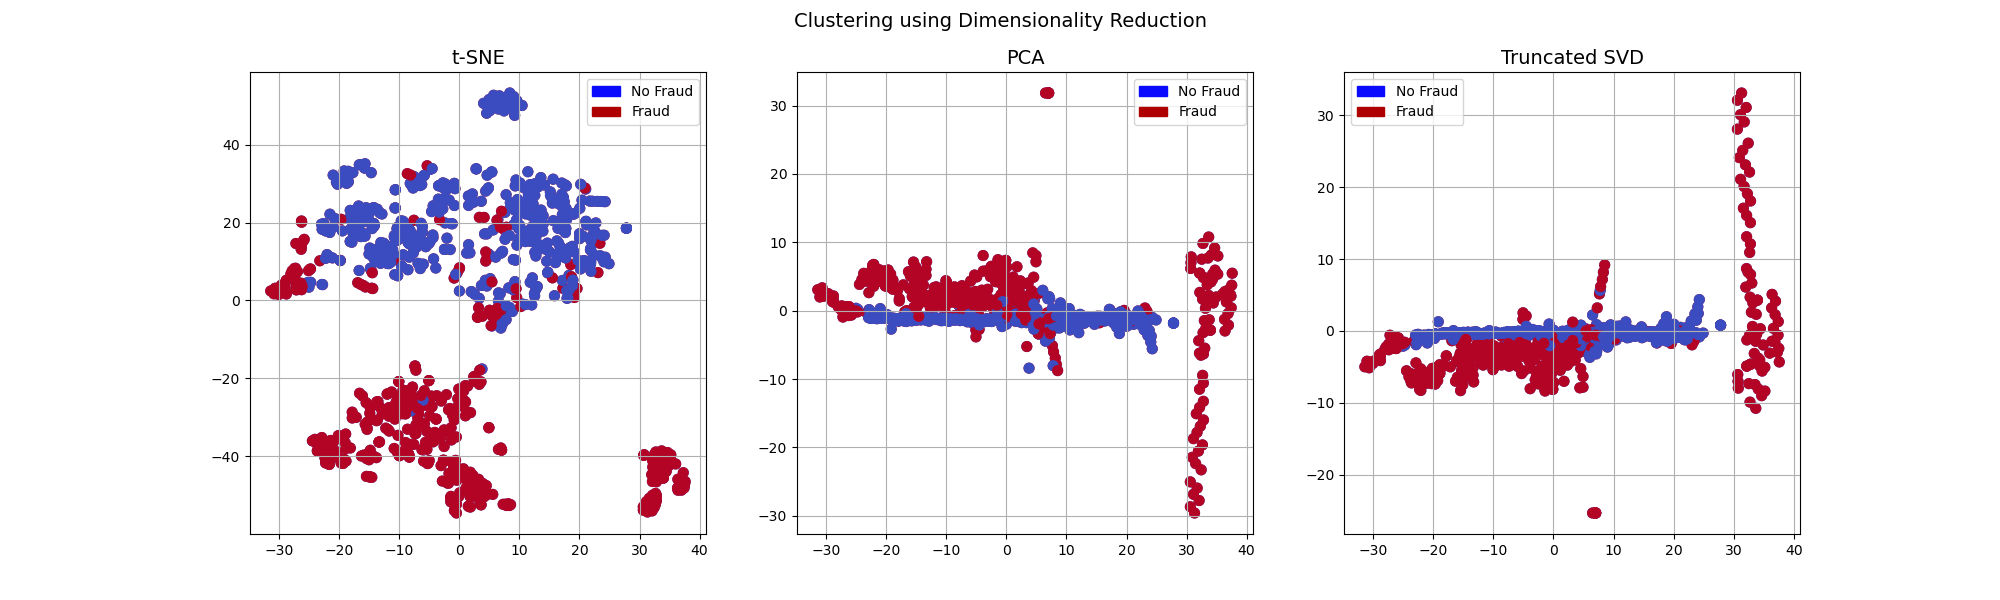
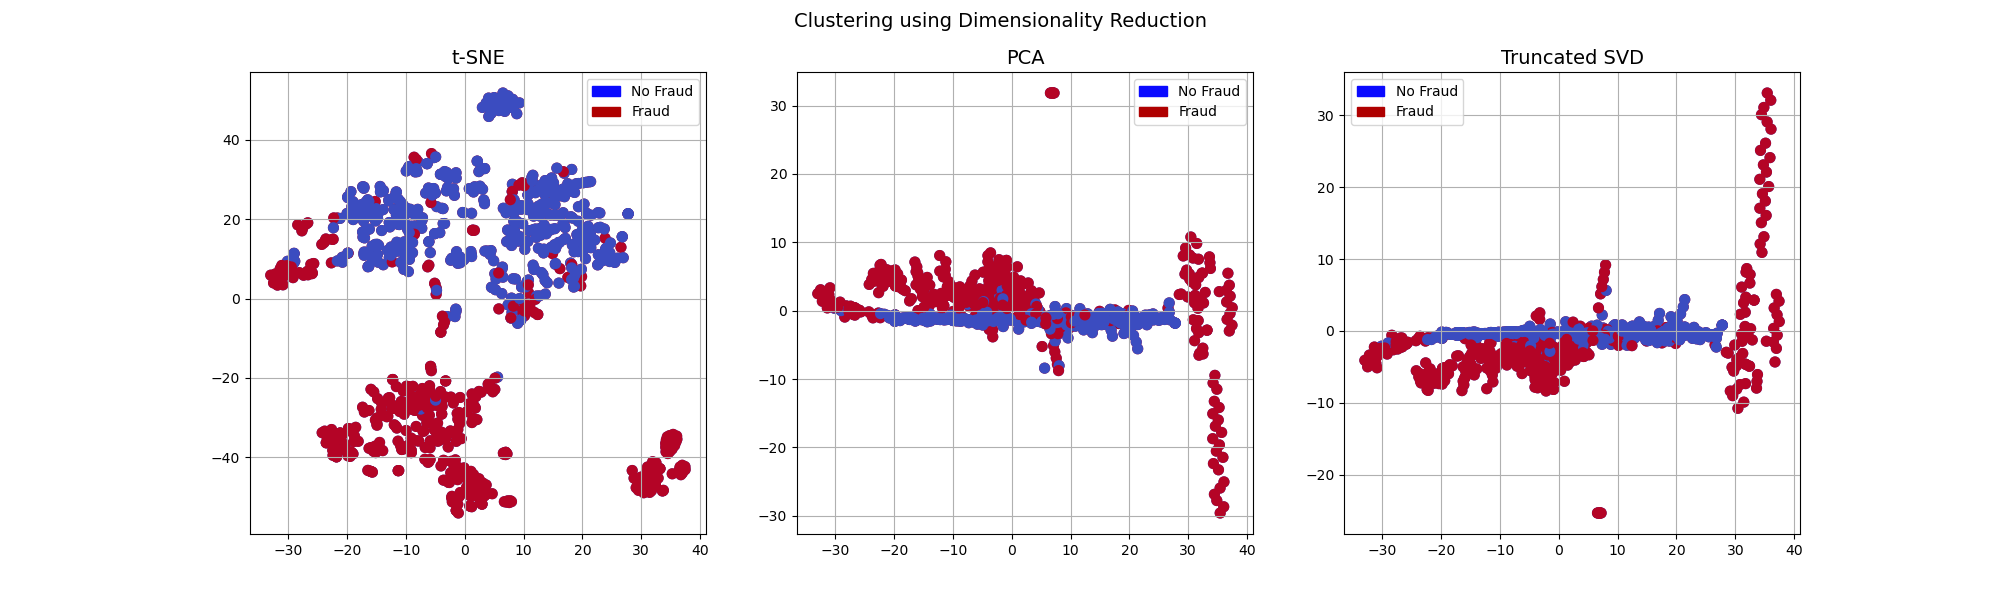
Used pipreqs to generate requirement.txt

diff --git a/preprocessing.py b/preprocessing.py
@@ -1,11 +1,15 @@
 import numpy as np
 import pandas as pd
+from dtype_diet import optimize_dtypes, report_on_dataframe
 from sklearn.model_selection import StratifiedKFold, train_test_split
 from sklearn.preprocessing import RobustScaler
 
 
 def read_data_as_data_frame(path_to_read_data):
-    df = pd.read_csv(path_to_read_data)
+    df_big = pd.read_csv(path_to_read_data)
+    proposed_df = report_on_dataframe(df_big, unit="MB")
+    df = optimize_dtypes(df_big, proposed_df)
+
     print(
         "No Fraud",
         round(df["Class"].value_counts()[0] / len(df) * 100, 2),
@@ -15,7 +19,6 @@ def read_data_as_data_frame(path_to_read_data):
     print(
         "Fraud", round(df["Class"].value_counts()[1] / len(df) * 100, 2), "% of dataset"
     )
-    # df = df.iloc[0:1000, :]
 
     return df
 

diff --git a/main.py b/main.py
@@ -11,7 +11,7 @@ import plotting
 import preprocessing
 import settings
 
-heartrate.trace(mv, browser=True)
+heartrate.trace(mv, browser=False)
 
 
 warnings.filterwarnings("ignore")
